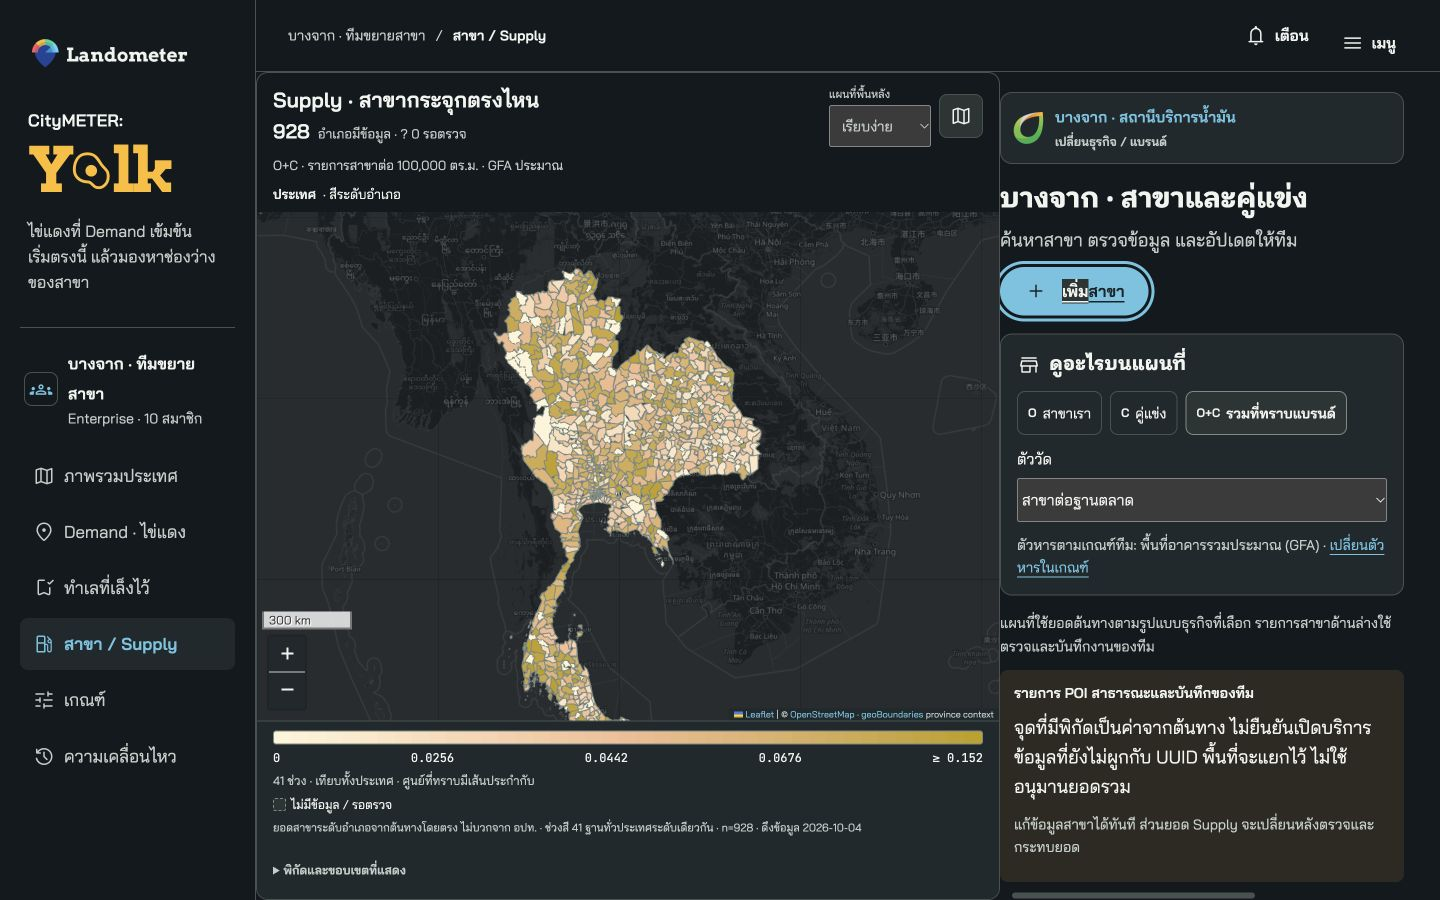
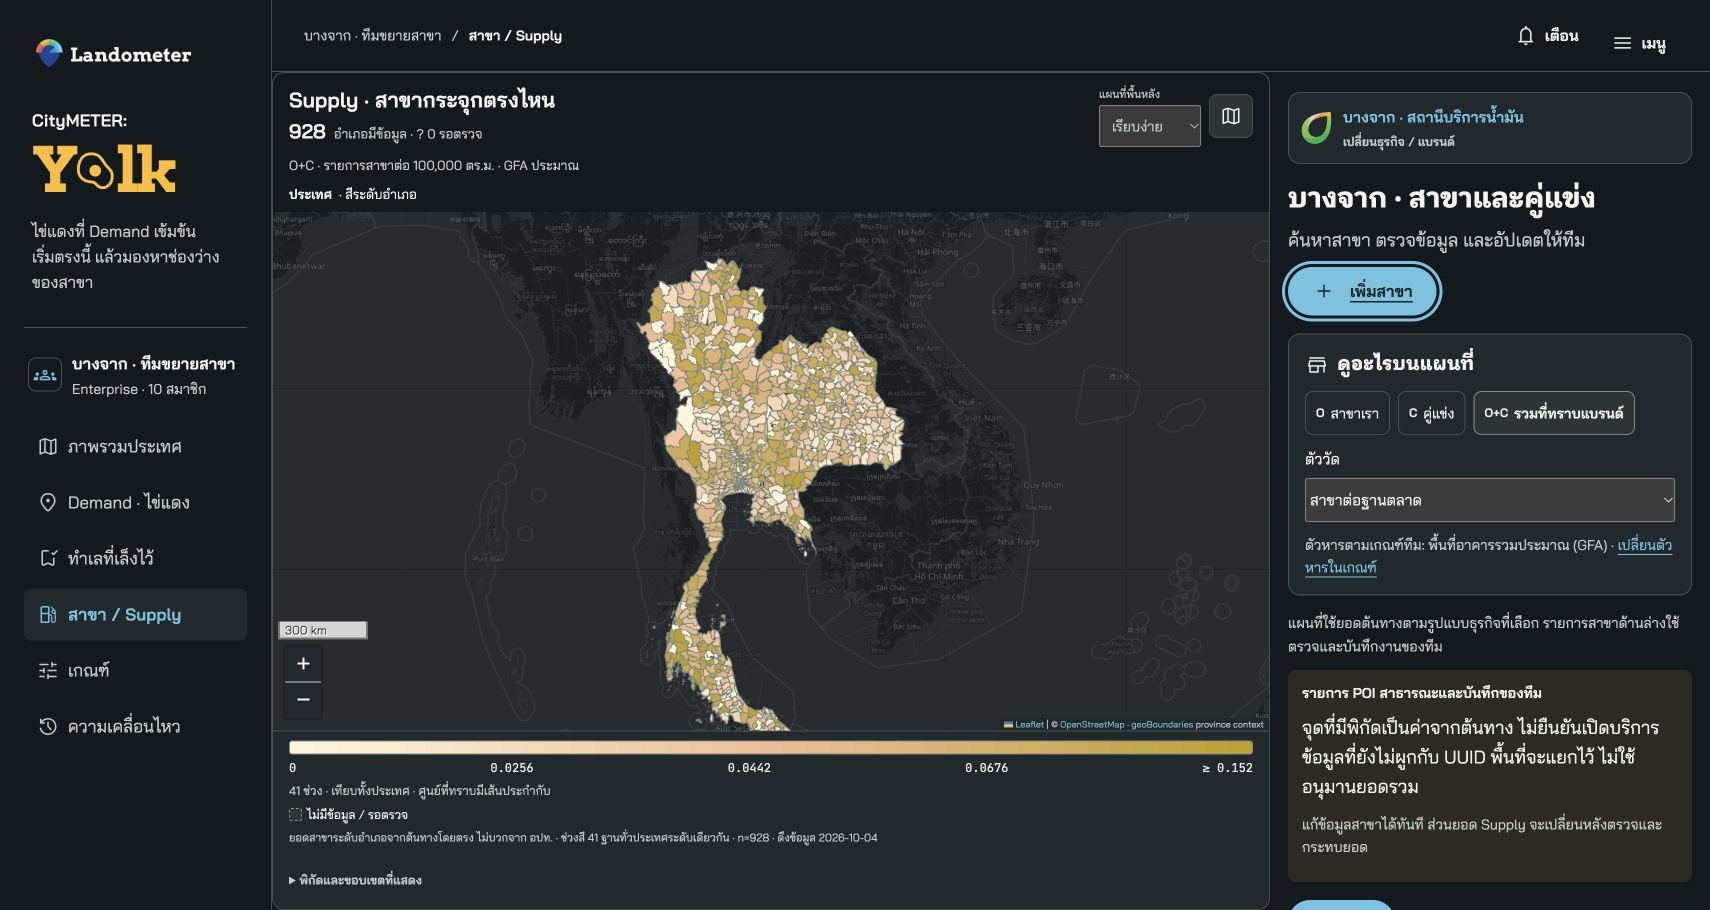
Keep Supply cards inside the persistent map action panel

diff --git a/prototype/index.html b/prototype/index.html
@@ -26,4 +26,4 @@
 <link rel="icon" type="image/png" sizes="48x48" href="assets/identity/icon-portfolio-48.png?v=443857069292">
 <link rel="apple-touch-icon" type="image/png" sizes="180x180" href="assets/identity/icon-portfolio-180.png?v=41ac1e302345">
 <link rel="manifest" href="assets/identity/site.webmanifest?v=de35ab7ff29e">
-<link rel="stylesheet" href="vendor/lds-0.9.7/color-srgb-10.production.css?v=3d34924a2498"><link rel="stylesheet" href="vendor/lds-0.9.7/fonts.css?v=a2564ee20060"><link rel="stylesheet" href="vendor/lds-0.9.7/location-intelligence-0.9.7.css?v=8d80360f8fef"><link rel="stylesheet" href="assets/yolk-analytical.css?v=f0e5b15899a0"><link rel="stylesheet" href="base.css?v=dfd6cb0930a2"><link rel="stylesheet" href="yolk.css?v=ac1fd3fbfe92"><link rel="stylesheet" href="landscape.css?v=f3a6ccfc5c0c"><link rel="stylesheet" href="vendor/leaflet-1.9.4/leaflet.css?v=a78371028241"><link rel="stylesheet" href="location-map.css?v=fabdc09ac176"><link rel="stylesheet" href="branch-photos.css?v=c275b384a446"><link rel="stylesheet" href="icons.css?v=be85f2375ccf"><link rel="stylesheet" href="experience.css?v=adfb3698cbfc"><link rel="stylesheet" href="decision-ui.css?v=48a01d16416d"><link rel="stylesheet" href="identity.css?v=0edf17cce07f"><link rel="stylesheet" href="yolk-focus.css?v=c554262665d5"><link rel="stylesheet" href="industry-workspace.css?v=1d552437a046"><link rel="stylesheet" href="criteria-controls.css?v=51a1925a8159"><link rel="stylesheet" href="criteria-map.css?v=dd8b03ada6d5"><link rel="stylesheet" href="brand-experience.css?v=d80b37ad382b"><link rel="stylesheet" href="workspace-map.css?v=5d8429c35b85"><link rel="stylesheet" href="workspace-layout.css?v=7a33c6b559e0"><link rel="stylesheet" href="poi-popup.css?v=e1252528f4ef"><link rel="stylesheet" href="map-hover.css?v=f7981cbfab77"><script src="theme.js?v=8b30487f8810"></script><link rel="stylesheet" href="analysis-ui.css?v=eb818fd6f458"><link rel="stylesheet" href="yolk-tier-style.css?v=60eec5f86c6b"><link rel="stylesheet" href="location-review.css?v=4ba00025168f"></head><body><a class="skip" href="#content">Skip to content</a><aside id="sidebar"></aside><div class="yolk-shell"><header id="header"></header><div class="yolk-map-workspace"><section id="workspace-map-panel" class="workspace-map-panel" aria-label="แผนที่พื้นที่ทำงาน · Workspace map"><div id="workspace-map"></div></section><main id="content" tabindex="-1"></main></div></div><nav id="mobile-nav" aria-label="Primary navigation"></nav><div id="toast" role="status"></div><dialog id="share-dialog"></dialog><noscript>CityMETER: Yolk prototype requires JavaScript. See the accompanying product brief for the complete design.</noscript><script src="data/thailand-provinces.js?v=053f780e80ef"></script><script src="bootstrap.js?v=15343f7df569"></script></body></html>
+<link rel="stylesheet" href="vendor/lds-0.9.7/color-srgb-10.production.css?v=3d34924a2498"><link rel="stylesheet" href="vendor/lds-0.9.7/fonts.css?v=a2564ee20060"><link rel="stylesheet" href="vendor/lds-0.9.7/location-intelligence-0.9.7.css?v=8d80360f8fef"><link rel="stylesheet" href="assets/yolk-analytical.css?v=f0e5b15899a0"><link rel="stylesheet" href="base.css?v=dfd6cb0930a2"><link rel="stylesheet" href="yolk.css?v=ac1fd3fbfe92"><link rel="stylesheet" href="landscape.css?v=f3a6ccfc5c0c"><link rel="stylesheet" href="vendor/leaflet-1.9.4/leaflet.css?v=a78371028241"><link rel="stylesheet" href="location-map.css?v=fabdc09ac176"><link rel="stylesheet" href="branch-photos.css?v=c275b384a446"><link rel="stylesheet" href="icons.css?v=be85f2375ccf"><link rel="stylesheet" href="experience.css?v=adfb3698cbfc"><link rel="stylesheet" href="decision-ui.css?v=48a01d16416d"><link rel="stylesheet" href="identity.css?v=0edf17cce07f"><link rel="stylesheet" href="yolk-focus.css?v=c554262665d5"><link rel="stylesheet" href="industry-workspace.css?v=1d552437a046"><link rel="stylesheet" href="criteria-controls.css?v=51a1925a8159"><link rel="stylesheet" href="criteria-map.css?v=dd8b03ada6d5"><link rel="stylesheet" href="brand-experience.css?v=d80b37ad382b"><link rel="stylesheet" href="workspace-map.css?v=5d8429c35b85"><link rel="stylesheet" href="workspace-layout.css?v=a84621d067b4"><link rel="stylesheet" href="poi-popup.css?v=e1252528f4ef"><link rel="stylesheet" href="map-hover.css?v=f7981cbfab77"><script src="theme.js?v=8b30487f8810"></script><link rel="stylesheet" href="analysis-ui.css?v=eb818fd6f458"><link rel="stylesheet" href="yolk-tier-style.css?v=60eec5f86c6b"><link rel="stylesheet" href="location-review.css?v=4ba00025168f"></head><body><a class="skip" href="#content">Skip to content</a><aside id="sidebar"></aside><div class="yolk-shell"><header id="header"></header><div class="yolk-map-workspace"><section id="workspace-map-panel" class="workspace-map-panel" aria-label="แผนที่พื้นที่ทำงาน · Workspace map"><div id="workspace-map"></div></section><main id="content" tabindex="-1"></main></div></div><nav id="mobile-nav" aria-label="Primary navigation"></nav><div id="toast" role="status"></div><dialog id="share-dialog"></dialog><noscript>CityMETER: Yolk prototype requires JavaScript. See the accompanying product brief for the complete design.</noscript><script src="data/thailand-provinces.js?v=053f780e80ef"></script><script src="bootstrap.js?v=15343f7df569"></script></body></html>

diff --git a/prototype/workspace-layout.css b/prototype/workspace-layout.css
@@ -24,7 +24,7 @@
 .yolk-map-workspace .inline-fields,.yolk-map-workspace .tier-inputs,.yolk-map-workspace .landscape-grid{grid-template-columns:1fr}
 .yolk-map-workspace .metric-picker{grid-template-columns:1fr}.yolk-map-workspace .preferred-grid{grid-template-columns:1fr}.yolk-map-workspace .formula-note{grid-column:auto}
 .yolk-map-workspace .source-summary,.yolk-map-workspace .section{padding:16px}.yolk-map-workspace .context-note{display:block!important}.yolk-map-workspace .industry-preset-summary{grid-column:1/-1}
-.yolk-map-workspace .supply-table{display:block}.yolk-map-workspace .supply-table thead{display:none}.yolk-map-workspace .supply-table tbody,.yolk-map-workspace .supply-table tr{display:block}.yolk-map-workspace .supply-table td{display:block;border:0;padding:6px 12px}.yolk-map-workspace .supply-table tr{border-top:1px solid var(--line);padding:10px 0}.yolk-map-workspace .supply-table td::before{content:attr(data-label);display:block;font-size:12px;color:var(--muted)}
+.yolk-map-workspace .supply-table{display:block;min-width:0;width:100%}.yolk-map-workspace .supply-table thead{display:none}.yolk-map-workspace .supply-table tbody,.yolk-map-workspace .supply-table tr{display:block}.yolk-map-workspace .supply-table td{display:block;min-width:0;overflow-wrap:anywhere;border:0;padding:6px 12px}.yolk-map-workspace .supply-table tr{border-top:1px solid var(--line);padding:10px 0}.yolk-map-workspace .supply-table td::before{content:attr(data-label);display:block;font-size:12px;color:var(--muted)}
 .yolk-map-workspace .supply-tools{flex-wrap:wrap}.yolk-map-workspace .supply-tabs{flex-wrap:wrap}.yolk-map-workspace .supply-tabs button{font-size:13px}.yolk-map-workspace .supply-table-wrap{overflow:visible}
 .yolk-map-workspace .evidence-grid,.yolk-map-workspace .criteria-pair{grid-template-columns:1fr}.yolk-map-workspace .leaderboard-grid{grid-template-columns:1fr}
 @media(min-width:1100px){.yolk-shell{height:100dvh;overflow:hidden}#header{height:72px;min-height:72px!important}.yolk-map-workspace .criteria-control-scroll .metric-picker{grid-template-columns:1fr}}

diff --git a/IMPLEMENTATION_PLAN_v1.7.3.md b/IMPLEMENTATION_PLAN_v1.7.3.md
@@ -78,6 +78,8 @@ Retained 14 commands ดู [แผน map-analysis](IMPLEMENTATION_PLAN_v1.7.2.
 
 ## Final interaction refinements - 1.7.3
 
+Supply cards must fit the fixed action panel without horizontal scrolling or clipped text. In workspace-layout.css keep supply-table min-width:0 and width:100%; cells allow min-width:0 and overflow-wrap:anywhere. Long branch/brand names wrap; do not hide overflow to mask a layout failure. Verify actual rendered card width against the action-panel client width on desktop and mobile. Final post-release layout/provider/live-byte proof remains separate from local prepublication receipts; no test-count or version change is implied.
+
 Buttons, links and disclosure summaries containing icons underline only their caption on hover (the Yolk wordmark is excluded); the icon glyph is undecorated and keyboard focus remains visible. Map and tile minZoom is 3, overriding the retained 1.7.2 value 4 so explicit mobile country fit can show the full country. Mobile bottom fit padding uses max(50, ceil(actual rendered footer legend height) + 18) px; desktop uses 18 px. Menu changes, criteria previews and ordinary sync retain the camera; only explicit navigation/home/fit changes it.
 
 Current automated results: 17 suites / 260 checks passed. Independent snapshot consistency audit: 65 checks passed separately. Bounded native Chrome review passed selected Thai/dark and English/light flows at 1440x900 and390x844. See [native browser receipt](evidence/browser-v1.7.3/native-browser-review.json). This is not a full language/theme matrix or a physical-device/backend pass. Provider/live-byte evidence remains pending.

diff --git a/CityMETER_Yolk_Product_Statement_v1.7.3.md b/CityMETER_Yolk_Product_Statement_v1.7.3.md
@@ -78,6 +78,8 @@ Dev เริ่มที่ [Implementation plan](IMPLEMENTATION_PLAN_v1.7.3.md
 
 ## ใช้งานได้ชัดขึ้นในรุ่น 1.7.3
 
+รายการสาขาพอดีกับแผงทำงานข้างแผนที่ ชื่อและข้อความยาวขึ้นบรรทัดใหม่ได้ อ่านครบโดยไม่ต้องเลื่อนแนวนอนหรือถูกตัดข้อความ
+
 เมื่อชี้ปุ่ม ลิงก์ หรือหัวข้อเปิดรายละเอียดที่มีไอคอน เส้นใต้จะเน้นเฉพาะข้อความ ไอคอนยังอ่านชัด และผู้ใช้คีย์บอร์ดยังคงเห็นกรอบ focus
 
 บนมือถือ เมื่อสั่งดูทั้งประเทศหรือปรับแผนที่ให้พอดี ระบบซูมออกได้เพิ่มและเผื่อพื้นที่ตามความสูงของคำอธิบายสีที่แสดงจริง การสลับเมนูและทดลองเกณฑ์ยังคงมุมมองเดิม จนผู้ใช้สั่งเปลี่ยนพื้นที่หรือ fit เอง

diff --git a/HANDOFF.md b/HANDOFF.md
@@ -46,6 +46,8 @@ Static previewยังเป็น browser-local ไม่มีshared backend/
 
 ## Final interaction refinements - 1.7.3
 
+Supply cards fit the fixed action panel. Long names wrap without horizontal scrolling or clipped text; do not use overflow:hidden to conceal overflow. Check this on the final served candidate. Local prepublication receipts are distinct from post-release layout/provider/live-byte proof; version 1.7.3 and the previously reported test counts remain unchanged.
+
 Buttons, links and disclosure summaries containing icons underline only their caption on hover (the Yolk wordmark is excluded); the icon glyph is undecorated and keyboard focus remains visible. Map and tile minZoom is 3, overriding the retained 1.7.2 value 4 so explicit mobile country fit can show the full country. Mobile bottom fit padding uses max(50, ceil(actual rendered footer legend height) + 18) px; desktop uses 18 px. Menu changes, criteria previews and ordinary sync retain the camera; only explicit navigation/home/fit changes it.
 
 Current automated results: 17 suites / 260 checks passed. Independent snapshot consistency audit: 65 checks passed separately. Bounded native Chrome review passed selected Thai/dark and English/light flows at 1440x900 and390x844. See [native browser receipt](evidence/browser-v1.7.3/native-browser-review.json). This is not a full language/theme matrix or a physical-device/backend pass. Provider/live-byte evidence remains pending.
